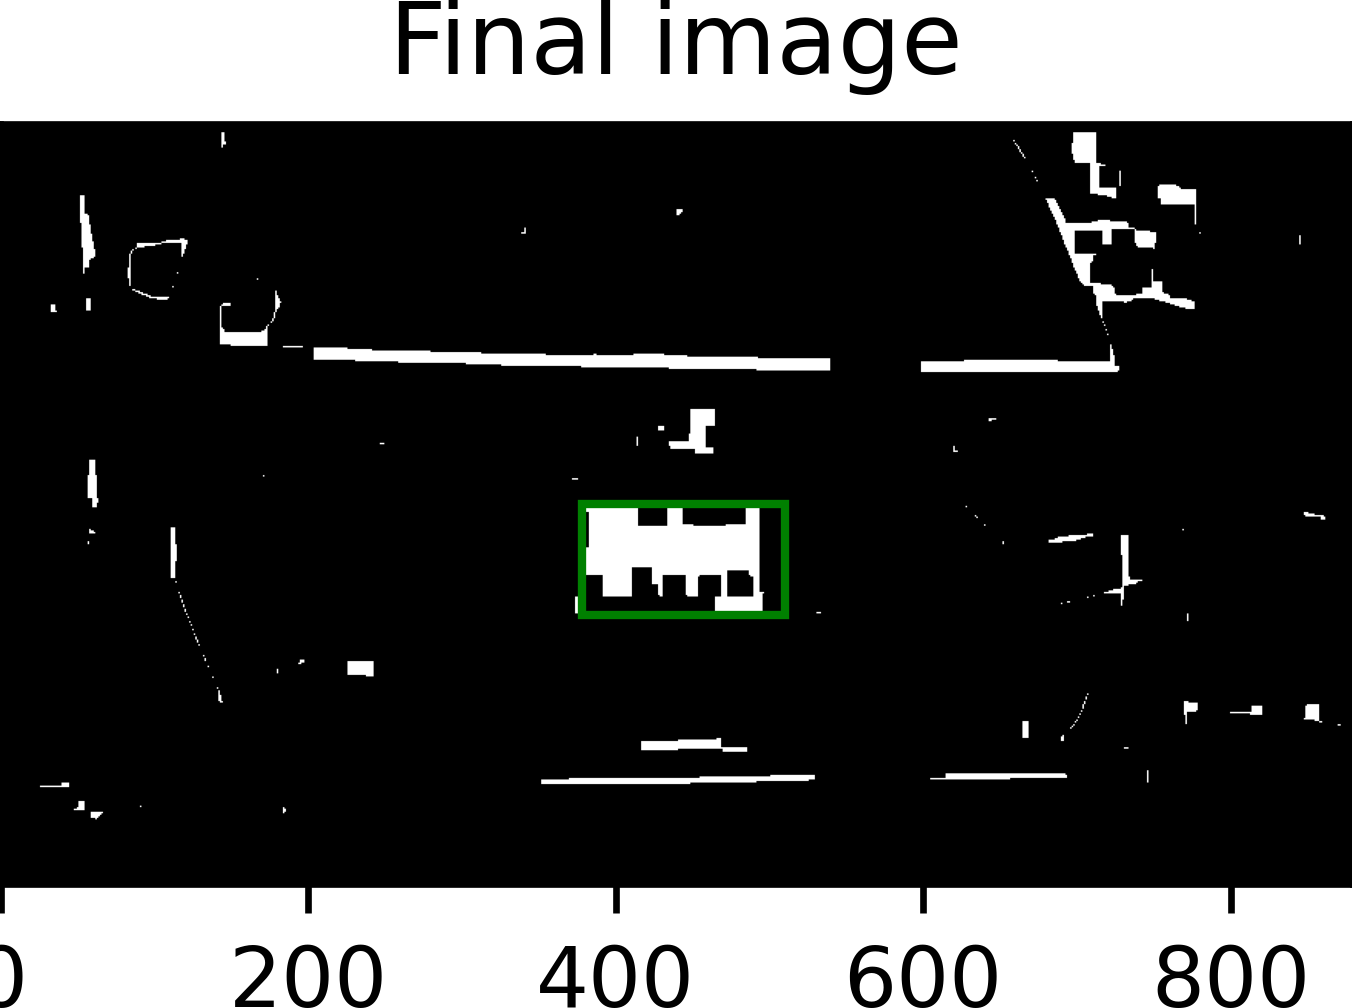
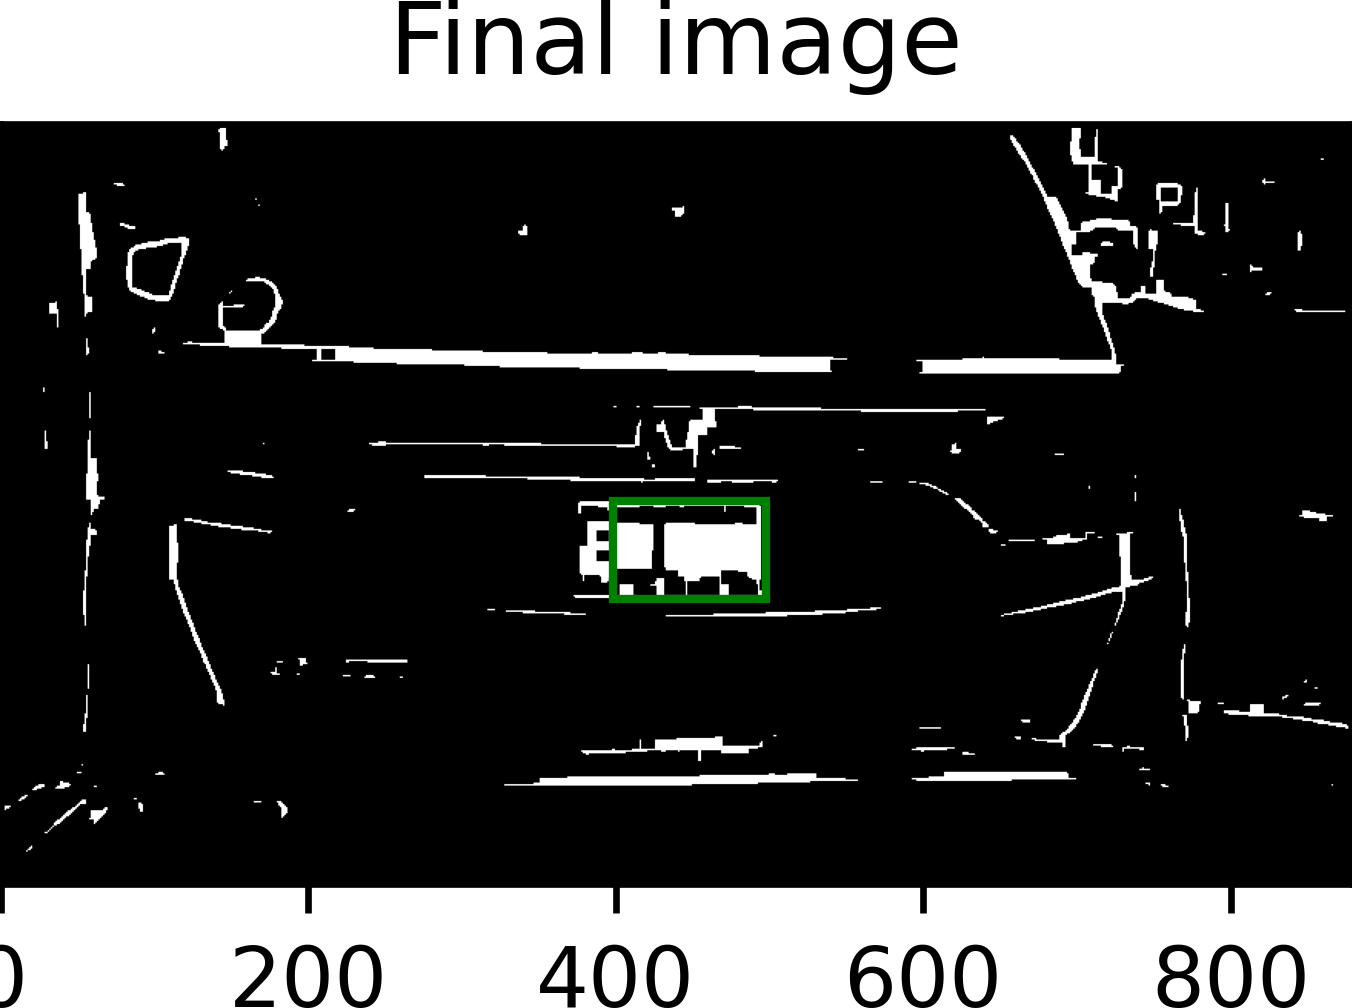
init

diff --git a/CS373LicensePlateDetection.py b/CS373LicensePlateDetection.py
@@ -231,7 +231,7 @@ def main():
     SHOW_DEBUG_FIGURES = True
 
     # this is the default input image filename
-    input_filename = "numberplate6.png"
+    input_filename = "numberplate2.png"
 
     if command_line_arguments:
         input_filename = command_line_arguments[0]
@@ -262,14 +262,17 @@ def main():
 
     axs1[0, 1].set_title('Contrast Stretching')
     axs1[0, 1].imshow(px_array, cmap='gray')
-
+    # 140 5 6 (4/6)
+    # 140 3 3 (2 and 3 are close; 4 only 2/3 match, 1, 5, 6 match)
+    # 150 4 4 (4/6) (2 and 3 are somewhat close)
+    # 150 3 5, 5x5 dilation (4/6)
     px_array = computeThresholdGE(px_array, 140, image_width, image_height)
 
     # print(px_array)
-    for _ in range(5):
+    for _ in range(3):
         px_array = computeDilation8Nbh3x3FlatSE(px_array, image_width, image_height)
 
-    for _ in range(6):
+    for _ in range(3):
         px_array = computeErosion8Nbh3x3FlatSE(px_array, image_width, image_height)
 
     # (px_array)
@@ -325,12 +328,22 @@ def main():
     bbox_min_y = center_y - image_width / 4.0
     bbox_max_y = center_y + image_width / 4.0
 
+    # BW image of only the largest connected component
+    res_largest_component = createInitializedGreyscalePixelArray(image_width, image_height)
+
+    for i in range(len(res)):
+        for j in range(len(res[i])):
+            if res[i][j] == largest_key:
+                res_largest_component[i][j] = 1
+
+    print(res_largest_component)
+
     # Draw a bounding box as a rectangle into the input image
     axs1[1, 1].set_title('Final image')
-    axs1[1, 1].imshow(px_array, cmap='gray')
+    axs1[1, 1].imshow(res_largest_component, cmap='gray')
     rect = Rectangle((min_pixel[1], min_pixel[0]), max_pixel[1] - min_pixel[1], max_pixel[0] - min_pixel[0], linewidth=1,
                      edgecolor='g', facecolor='none')
-    axs1[1, 1].add_patch(rect)
+    # axs1[1, 1].add_patch(rect)
 
     # write the output image into output_filename, using the matplotlib savefig method
     extent = axs1[1, 1].get_window_extent().transformed(fig1.dpi_scale_trans.inverted())
